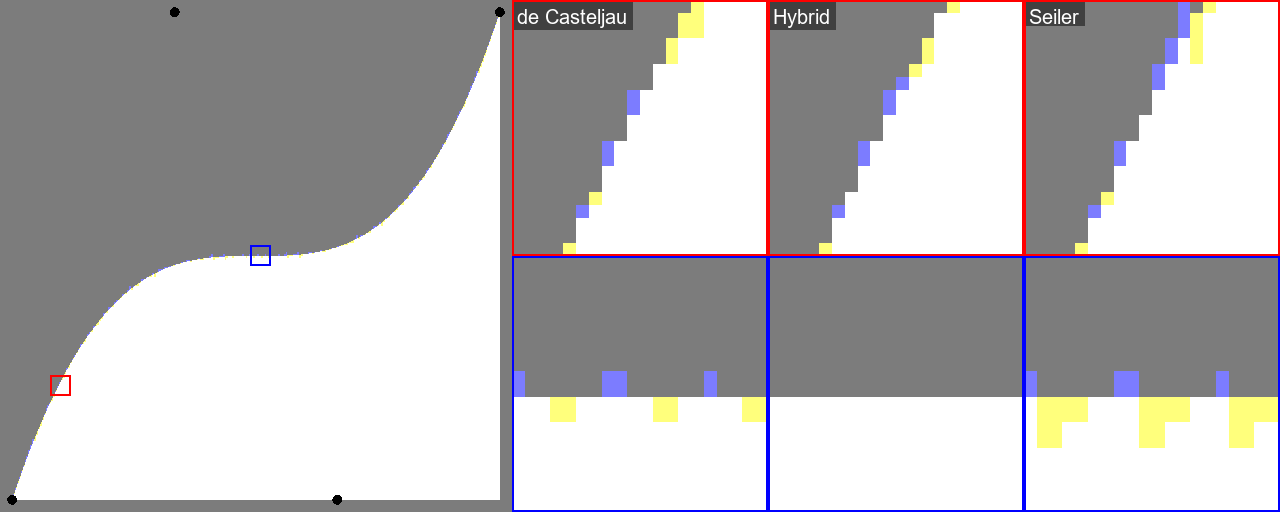
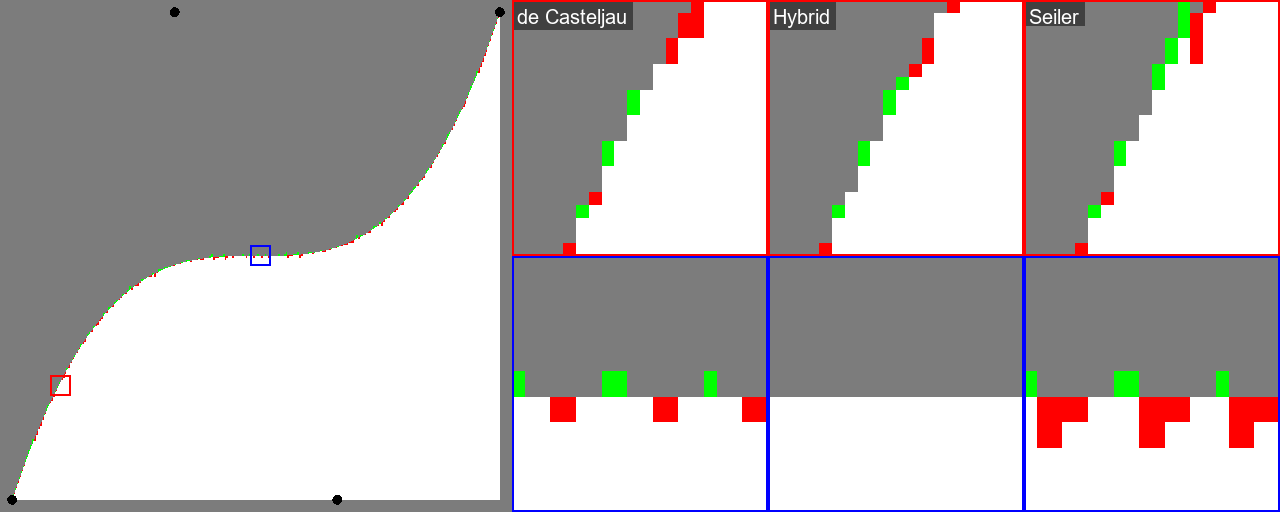
Updated discretization diagram

diff --git a/Paper/Diagrams/CurveAccuracy/figure.tex b/Paper/Diagrams/CurveAccuracy/figure.tex
@@ -2,9 +2,10 @@
     \centering
     \includegraphics[width=\textwidth]{Diagrams/CurveAccuracy/diagram.png}
     \caption{Using the texture interpolator to evaluate Bézier curves suffers from quantization errors due to fixed point quantization of the $(u,v)$ coordinates.
-    Here a cubic curve is shown evaluated using the de Casteljau texture method which samples a 2x2x2 volume texture with a single texture read. A hybrid mode is shown
-    which evaluates two quadratic curves with the texture interpolator and then does the final lerp in the shader at full 32 bit floating point precision to reduce the error.
-    Lastly the Seiler method is shown which takes a single sample of a 2x2 texture. In all images, yellow is the ground truth evaluated as a polynomial in the shader, and blue is
-    added in for the comparison curve to show the error. The full sized image shows the de Casteljau method compared to the ground truth.}
+    Here a cubic curve is shown evaluated using the de Casteljau texture method which samples a 2x2x2 volume texture with a single trilinear texture read. A hybrid mode is shown
+    which evaluates two quadratic curves with the texture interpolator (two bilinear reads) and then does the final lerp in the shader at full 32 bit floating point precision to reduce the error.
+    Lastly the Seiler method is shown which takes a single bilinear sample of a 2x2 texture. In all images, the polynomial ground truth is shown in white. Where the curve being evaluated
+    is less than the ground truth, the curve is shown in red, and where it is greater than the ground truth, it is shown in green. The full sized image shows the de Casteljau method compared to the ground truth.
+    Seiler is most affected by quantization error, but uses the fewest texels.}
     \label{fig_curve_accuracy}
 \end{figure}

diff --git a/Paper/paper.tex b/Paper/paper.tex
@@ -47,7 +47,7 @@
 \maketitle
 \thispagestyle{firstpagestyle}
 
-\AW{You can add your affiliation (school) if you want to}
+\AW{You can add your affiliation (school) under your name like i added my company}
 
 \begin{abstract}
 \small
@@ -140,8 +140,6 @@ rescale the curves to fit within the range. However, higher bit depth textures c
 Another source of discretization error is in the texture sampling itself. When performing interpolation, the (u,v) coordinates themselves are commonly converted to a fixed point X.8 bit
 format, leading to unavoidable quantization errors \cite{CUDA_PG}.  If this is a problem, doing some of the interpolation levels in the shader can help reduce the error, since shaders run at full
 32 bit float precision. The quantization errors are shown in figure \ref{fig_curve_accuracy}.
-
-\AW{Maybe change the qunaitzation figure to show a neutral color for the curve and show red where the curve is too high and green where the curve is too low. Something like that could be more readable.}
 
 \section{Seiler Interpolation}
 
